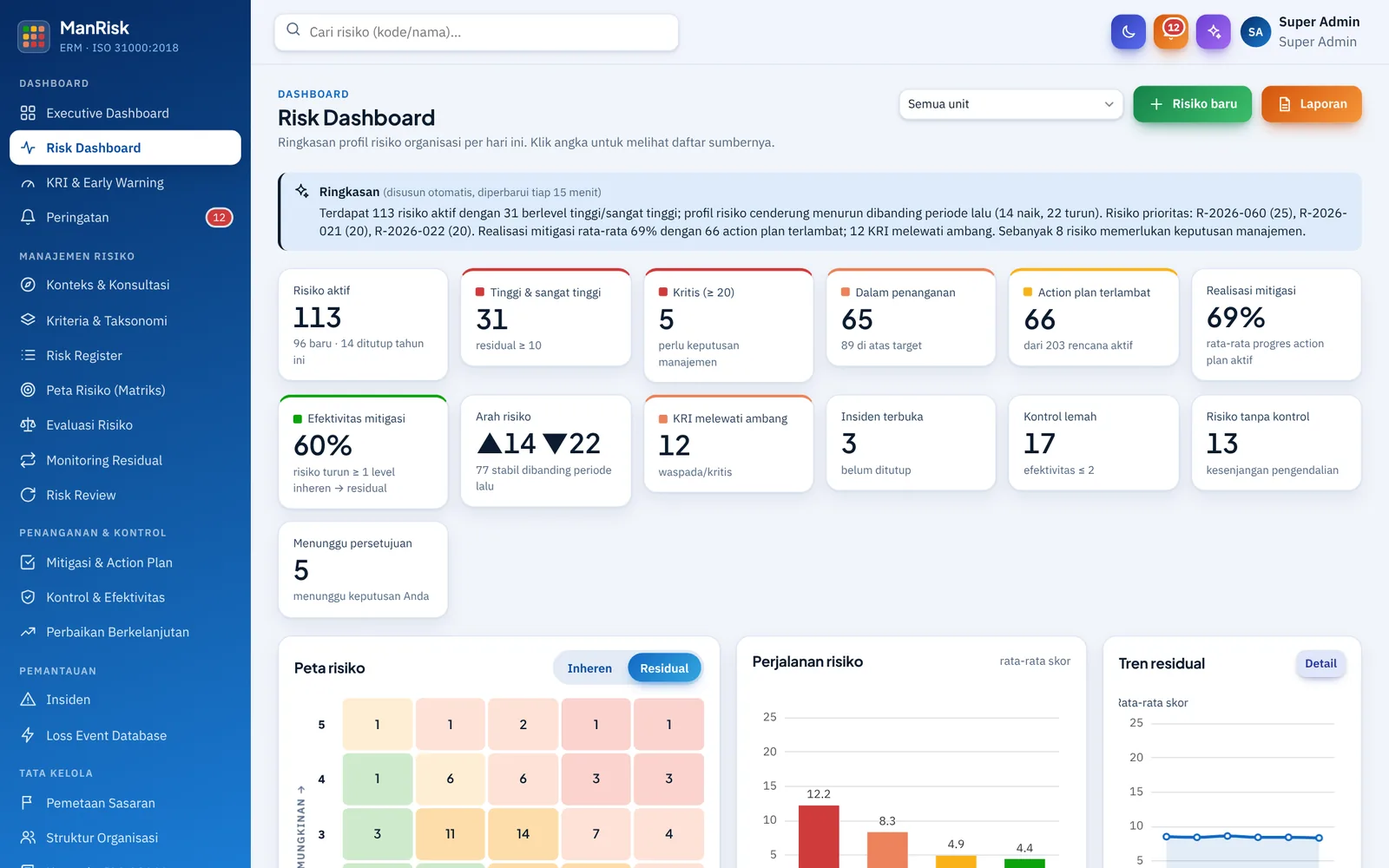
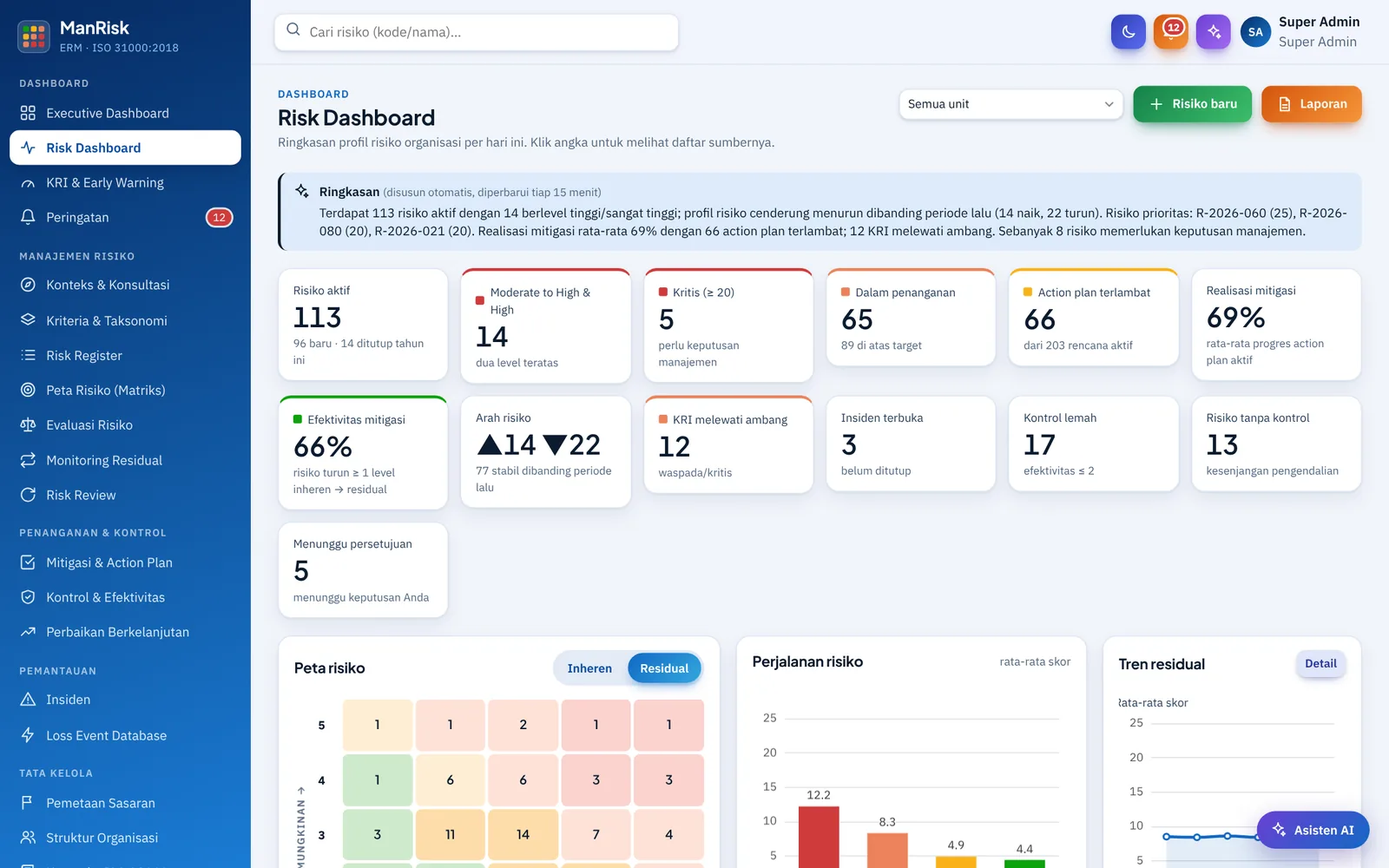
feat(landing): kesesuaian Permen BUMN PER-2/MBU/03/2023 dan fitur versi terbaru
Landing page sebelumnya diambil dari cabang main yang belum memuat modul
PER-2. Sekarang mengikuti versi yang berjalan di produksi:
- Hero: ISO 31000:2018 + PER-2/MBU/03/2023, manajemen risiko terintegrasi
- Bagian baru PER-2: tiga lini & organ pengelola, taksonomi T1-T3,
  level 5 tingkat & kuantifikasi, laporan triwulanan, RMI, kajian KKS
- Fitur baru: risk limit, target triwulan, RMI, KKS, review berkala,
  AI Assistant & AI Analitik; 8 peran (Dewan Komisaris/Komite)
- 16 tangkapan layar baru dari versi produksi (data demo)
- SEO: judul, deskripsi, kata kunci, JSON-LD & FAQ PER-2, sitemap gambar
- Nav tidak lagi berdesakan di lebar tablet; kode regulasi tidak terpotong

Claude-Session: https://claude.ai/code/session_01KqfbCUpMHUVtfsJKwpdSwo

diff --git a/index.html b/index.html
@@ -3,9 +3,9 @@
 <head>
 <meta charset="utf-8">
 <meta name="viewport" content="width=device-width, initial-scale=1">
-<title>Aplikasi Manajemen Risiko ISO 31000 (ERM) | ManRisk – Semesta Teknologi Utama</title>
-<meta name="description" content="ManRisk ERM: aplikasi manajemen risiko berbasis ISO 31000:2018 untuk perusahaan, BUMN, instansi pemerintah, dan lembaga keuangan. Risk register, peta risiko 5×5, KRI & early warning, action plan, insiden & loss database, laporan PDF/Excel.">
-<meta name="keywords" content="aplikasi manajemen risiko, software manajemen risiko, sistem manajemen risiko, manajemen risiko ISO 31000, enterprise risk management, aplikasi ERM, risk register, peta risiko, heat map risiko, key risk indicator, KRI, risk assessment, penilaian risiko, mitigasi risiko, loss event database, manajemen risiko BUMN, manajemen risiko perusahaan, GRC Indonesia, Semesta Teknologi Utama">
+<title>Aplikasi Manajemen Risiko ISO 31000 & PER-2/MBU/03/2023 | ManRisk ERM</title>
+<meta name="description" content="ManRisk ERM: aplikasi manajemen risiko terintegrasi sesuai ISO 31000:2018 dan Permen BUMN PER-2/MBU/03/2023. Risk register, matriks & evaluasi, mitigasi, kontrol, KRI, insiden, review berkala, persetujuan berjenjang, laporan triwulanan, Risk Maturity Index, dan kajian risiko KKS.">
+<meta name="keywords" content="aplikasi manajemen risiko, software manajemen risiko, sistem manajemen risiko, manajemen risiko ISO 31000, PER-2/MBU/03/2023, Permen BUMN PER-2 2023, manajemen risiko BUMN, aplikasi manajemen risiko BUMN, taksonomi risiko BUMN, Risk Maturity Index, RMI BUMN, Kegiatan Korporasi Signifikan, kajian risiko KKS, laporan manajemen risiko triwulanan, risk limit, eksposur risiko, tiga lini, Komite Pemantau Risiko, enterprise risk management, aplikasi ERM, risk register, peta risiko, key risk indicator, KRI, GRC Indonesia, Semesta Teknologi Utama">
 <meta name="author" content="PT Semesta Teknologi Utama">
 <meta name="robots" content="index, follow, max-image-preview:large, max-snippet:-1">
 <meta name="googlebot" content="index, follow">
@@ -22,8 +22,8 @@
 <meta property="og:type" content="website">
 <meta property="og:locale" content="id_ID">
 <meta property="og:site_name" content="ManRisk ERM – Semesta Teknologi Utama">
-<meta property="og:title" content="Aplikasi Manajemen Risiko ISO 31000 | ManRisk ERM">
-<meta property="og:description" content="Kelola seluruh siklus risiko—identifikasi, analisis, evaluasi, penanganan, pemantauan, dan pelaporan—dalam satu aplikasi berbasis ISO 31000:2018.">
+<meta property="og:title" content="Aplikasi Manajemen Risiko ISO 31000 & PER-2/MBU/03/2023 | ManRisk ERM">
+<meta property="og:description" content="Manajemen risiko terintegrasi, sesuai standar internasional dan regulasi pemerintah. Risk register, matriks & evaluasi, mitigasi, kontrol, KRI, insiden, review berkala, persetujuan berjenjang, dan pelaporan dalam satu platform.">
 <meta property="og:url" content="https://manajemenrisiko.semestateknologiutama.com/">
 <meta property="og:image" content="https://manajemenrisiko.semestateknologiutama.com/assets/img/og-image.png">
 <meta property="og:image:width" content="1200">
@@ -31,8 +31,8 @@
 <meta property="og:image:alt" content="Dashboard aplikasi manajemen risiko ManRisk ERM">
 <!-- Twitter -->
 <meta name="twitter:card" content="summary_large_image">
-<meta name="twitter:title" content="Aplikasi Manajemen Risiko ISO 31000 | ManRisk ERM">
-<meta name="twitter:description" content="Risk register, peta risiko 5×5, KRI & early warning, action plan, dan laporan otomatis dalam satu aplikasi.">
+<meta name="twitter:title" content="Aplikasi Manajemen Risiko ISO 31000 & PER-2/MBU/03/2023 | ManRisk ERM">
+<meta name="twitter:description" content="Manajemen risiko terintegrasi sesuai ISO 31000:2018 dan Permen BUMN PER-2/MBU/03/2023: taksonomi T1–T3, risk limit, RMI, kajian KKS, laporan triwulanan.">
 <meta name="twitter:image" content="https://manajemenrisiko.semestateknologiutama.com/assets/img/og-image.png">
 
 <link rel="preconnect" href="https://fonts.googleapis.com">
@@ -76,18 +76,23 @@
       "url": "https://manajemenrisiko.semestateknologiutama.com/",
       "image": "https://manajemenrisiko.semestateknologiutama.com/assets/img/dashboard.webp",
       "screenshot": "https://manajemenrisiko.semestateknologiutama.com/assets/img/dashboard.webp",
-      "description": "Aplikasi manajemen risiko (ERM) berbasis ISO 31000:2018: risk register, peta risiko 5×5, KRI & early warning, action plan, kontrol, insiden & loss database, persetujuan berjenjang, audit trail, dan laporan PDF/Excel.",
+      "description": "Aplikasi manajemen risiko (ERM) terintegrasi sesuai ISO 31000:2018 dan Peraturan Menteri BUMN PER-2/MBU/03/2023: risk register, matriks & evaluasi, mitigasi, kontrol, KRI, insiden, review berkala, persetujuan berjenjang, laporan triwulanan, Risk Maturity Index, dan kajian risiko Kegiatan Korporasi Signifikan.",
       "featureList": [
+        "Kesesuaian ISO 31000:2018 dan Permen BUMN PER-2/MBU/03/2023",
+        "Organ pengelola risiko tiga lini: Direksi, Dewan Komisaris/Dewan Pengawas, Komite Audit, Komite Pemantau Risiko",
+        "Taksonomi risiko T1–T3 dari BUMN induk hingga anak perusahaan, klasifikasi sistemik/signifikan/netral",
+        "Level risiko 5 tingkat, kuantifikasi eksposur rupiah, risk limit, dan target residual per triwulan",
+        "Laporan manajemen risiko triwulanan BUMN",
+        "Penilaian Risk Maturity Index (RMI)",
+        "Kajian risiko Kegiatan Korporasi Signifikan (KKS)",
         "Risk Register dengan wizard identifikasi, analisis, evaluasi, dan treatment",
-        "Peta risiko (heat map) 5×5 inheren, residual, dan target",
+        "Matriks risiko 5×5 dan evaluasi terhadap appetite, tolerance, dan risk limit",
+        "Mitigasi (action plan) dan kontrol dengan pengujian efektivitas",
         "Key Risk Indicator (KRI) dan early warning",
-        "Action plan mitigasi dengan progres dan kanban",
-        "Kontrol dan pengujian efektivitas",
         "Insiden dan loss event database",
-        "Persetujuan berjenjang dengan SLA",
-        "Dashboard eksekutif",
-        "Laporan PDF dan Excel",
-        "Audit trail dan verifikasi dua langkah (MFA)"
+        "Risk review berkala dan persetujuan berjenjang dengan SLA",
+        "AI Assistant di setiap fitur dan AI Analitik",
+        "Laporan PDF/Excel, audit trail, dan verifikasi dua langkah (MFA)"
       ],
       "provider": { "@id": "https://semestateknologiutama.com/#organization" },
       "offers": {
@@ -109,6 +114,16 @@
           "@type": "Question",
           "name": "Apakah aplikasi ini sesuai standar ISO 31000?",
           "acceptedAnswer": { "@type": "Answer", "text": "Ya. Alur kerja, kriteria risiko, peta risiko 5×5, dan modul self-assessment kerangka kerja disusun berdasarkan prinsip, kerangka kerja, dan proses ISO 31000:2018." }
+        },
+        {
+          "@type": "Question",
+          "name": "Apakah ManRisk sesuai Peraturan Menteri BUMN PER-2/MBU/03/2023?",
+          "acceptedAnswer": { "@type": "Answer", "text": "Ya. Selain proses ISO 31000, ManRisk mengakomodasi ketentuan manajemen risiko dalam PER-2/MBU/03/2023 (yang menggantikan PER-5/MBU/09/2022): organ pengelola risiko tiga lini, taksonomi risiko T1–T3 dari BUMN induk hingga anak perusahaan, klasifikasi intensitas risiko sistemik/signifikan/netral, level risiko 5 tingkat dengan eksposur rupiah, risk limit, target residual per triwulan, laporan triwulanan, Risk Maturity Index, dan kajian risiko Kegiatan Korporasi Signifikan." }
+        },
+        {
+          "@type": "Question",
+          "name": "Apa itu Risk Maturity Index (RMI) di ManRisk?",
+          "acceptedAnswer": { "@type": "Answer", "text": "Modul RMI digunakan untuk menilai tingkat kematangan penerapan manajemen risiko pada lima dimensi, dengan penilaian internal setiap tahun dan penilaian independen paling sedikit sekali dalam tiga tahun. Hasilnya berupa indeks dan fase kematangan, dari Fase Awal hingga Praktik Terbaik." }
         },
         {
           "@type": "Question",
@@ -203,7 +218,7 @@ p { margin: 0; }
 .brand-text { font-family: var(--f-display); font-weight: 800; font-size: 18px; line-height: 1.05; }
 .brand-text small { display: block; font-family: var(--f-body); font-weight: 500; font-size: 11.5px; color: var(--muted); letter-spacing: .01em; }
 .nav-links { display: flex; align-items: center; gap: 26px; }
-.nav-links a { color: var(--fg-2); text-decoration: none; font-weight: 500; font-size: 15px; }
+.nav-links a { color: var(--fg-2); text-decoration: none; font-weight: 500; font-size: 15px; white-space: nowrap; }
 .nav-links a:hover { color: var(--blue-600); }
 .nav-links .btn { padding: 10px 16px; font-size: 14.5px; color: #fff; }
 .nav-toggle { display: none; background: none; border: 1px solid var(--line); border-radius: 10px; width: 42px; height: 42px; align-items: center; justify-content: center; color: var(--fg); }
@@ -213,6 +228,18 @@ p { margin: 0; }
 .hero::after { content: ""; position: absolute; inset: 0; background-image: linear-gradient(rgba(255,255,255,.05) 1px, transparent 1px), linear-gradient(90deg, rgba(255,255,255,.05) 1px, transparent 1px); background-size: 48px 48px; mask-image: linear-gradient(to bottom, #000 0%, transparent 75%); pointer-events: none; }
 .hero .wrap { position: relative; z-index: 1; }
 .hero-grid { display: grid; grid-template-columns: 1fr; gap: 40px; text-align: center; }
+.nw { white-space: nowrap; }
+.badges { display: flex; flex-wrap: wrap; gap: 8px; justify-content: center; }
+.reg { background: #fff; border-bottom: 1px solid var(--line); }
+.reg-grid { display: grid; grid-template-columns: 1fr 1.1fr; gap: 40px; align-items: start; }
+.reg-list { display: grid; gap: 16px; }
+.reg-item { display: flex; gap: 16px; align-items: flex-start; background: var(--bg); border: 1px solid var(--line); border-left: 4px solid var(--blue-600); border-radius: 14px; padding: 18px 20px; }
+.reg-item .ic { margin: 0; flex: none; width: 42px; height: 42px; }
+.reg-item h3 { font-size: 17px; }
+.reg-item p { color: var(--muted); font-size: 15px; margin-top: 4px; }
+.reg-shot { margin: 0; position: sticky; top: 92px; }
+.reg-shot img { border-radius: 14px; border: 1px solid var(--line); box-shadow: 0 30px 60px -30px rgba(4,35,79,.45); }
+.reg-shot figcaption { color: var(--muted); font-size: 14px; margin-top: 12px; text-align: center; }
 .badge { display: inline-flex; align-items: center; gap: 8px; background: rgba(255,255,255,.1); border: 1px solid rgba(255,255,255,.22); border-radius: 999px; padding: 6px 14px; font-size: 14px; font-weight: 500; color: #dbeafe; }
 .badge .dot { width: 8px; height: 8px; border-radius: 50%; background: #4ade80; box-shadow: 0 0 0 4px rgba(74,222,128,.2); }
 .hero h1 { color: #fff; font-size: clamp(34px, 5.4vw, 60px); font-weight: 800; margin: 22px auto 0; max-width: 940px; }
@@ -374,14 +401,17 @@ footer .brand-text small { color: #9fb4cf; }
 @media (max-width: 1024px) {
   .steps { grid-template-columns: repeat(3, 1fr); }
   .loss-grid, .benefit-grid, .feat-grid { grid-template-columns: repeat(2, 1fr); }
-  .two-col { grid-template-columns: 1fr; }
+  .two-col, .reg-grid { grid-template-columns: 1fr; }
+  .reg-shot { position: static; }
 }
-@media (max-width: 860px) {
+@media (max-width: 1100px) {
   .nav-links { display: none; position: absolute; top: 68px; left: 0; right: 0; background: #fff; flex-direction: column; align-items: stretch; gap: 0; padding: 8px 16px 16px; border-bottom: 1px solid var(--line); box-shadow: var(--shadow); }
   .nav-links.open { display: flex; }
   .nav-links a { padding: 12px 4px; border-bottom: 1px solid var(--line); }
   .nav-links .btn { margin-top: 12px; border-bottom: 0; }
   .nav-toggle { display: inline-flex; }
+}
+@media (max-width: 860px) {
   .stats-grid { grid-template-columns: repeat(2, 1fr); }
   .stat:nth-child(2) { border-right: 0; }
   .stat:nth-child(-n+2) { border-bottom: 1px solid var(--line); }
@@ -453,7 +483,8 @@ footer .brand-text small { color: #9fb4cf; }
     </a>
     <button class="nav-toggle" aria-label="Buka menu" aria-expanded="false" aria-controls="nav-links"><svg width="22" height="22"><use href="#i-menu"/></svg></button>
     <nav class="nav-links" id="nav-links" aria-label="Navigasi utama">
-      <a href="#kerugian">Risiko tanpa aplikasi</a>
+      <a href="#per-2">Regulasi BUMN</a>
+      <a href="#kerugian">Tanpa aplikasi</a>
       <a href="#manfaat">Manfaat</a>
       <a href="#fitur">Fitur</a>
       <a href="#tangkapan-layar">Tampilan</a>
@@ -469,17 +500,20 @@ footer .brand-text small { color: #9fb4cf; }
   <div class="wrap">
     <div class="hero-grid">
       <div>
-        <span class="badge"><span class="dot"></span>Berbasis standar ISO 31000:2018</span>
-        <h1>Aplikasi <span class="hl">Manajemen Risiko</span> Terintegrasi untuk Keputusan yang Lebih Aman</h1>
-        <p class="sub">ManRisk ERM membantu perusahaan, BUMN, lembaga keuangan, dan instansi pemerintah mengelola seluruh siklus risiko—dari identifikasi hingga pelaporan—dalam satu sistem yang rapi, terukur, dan siap diaudit.</p>
+        <div class="badges">
+          <span class="badge"><span class="dot"></span>ISO 31000:2018</span>
+          <span class="badge"><span class="dot"></span>Permen BUMN <span class="nw">PER-2/MBU/03/2023</span></span>
+        </div>
+        <h1><span class="hl">Manajemen risiko terintegrasi</span>, sesuai standar internasional dan regulasi pemerintah</h1>
+        <p class="sub">Risk register, matriks &amp; evaluasi, mitigasi, kontrol, KRI, insiden, review berkala, persetujuan berjenjang, dan pelaporan — dalam satu platform.</p>
         <div class="hero-cta">
           <a class="btn btn-wa js-wa" href="#" target="_blank" rel="noopener"><svg><use href="#i-wa"/></svg>Jadwalkan Demo via WhatsApp</a>
           <a class="btn btn-ghost" href="#fitur">Lihat Fitur Lengkap</a>
         </div>
         <div class="hero-meta">
-          <span><svg><use href="#i-check"/></svg>Risk register &amp; peta risiko 5×5</span>
-          <span><svg><use href="#i-check"/></svg>KRI &amp; early warning</span>
-          <span><svg><use href="#i-check"/></svg>Laporan PDF/Excel otomatis</span>
+          <span><svg><use href="#i-check"/></svg>Taksonomi T1–T3 &amp; risk limit</span>
+          <span><svg><use href="#i-check"/></svg>Risk Maturity Index &amp; kajian KKS</span>
+          <span><svg><use href="#i-check"/></svg>Laporan triwulanan BUMN</span>
         </div>
       </div>
       <div class="hero-shot">
@@ -493,10 +527,45 @@ footer .brand-text small { color: #9fb4cf; }
 <!-- STATS -->
 <section class="stats" aria-label="Ringkasan kemampuan">
   <div class="wrap stats-grid">
-    <div class="stat"><b>25+</b><span>Modul terintegrasi</span></div>
-    <div class="stat"><b>7</b><span>Peran pengguna &amp; hak akses</span></div>
-    <div class="stat"><b>5×5</b><span>Matriks peta risiko</span></div>
-    <div class="stat"><b>100%</b><span>Jejak audit setiap perubahan</span></div>
+    <div class="stat"><b>30+</b><span>Modul terintegrasi</span></div>
+    <div class="stat"><b>8</b><span>Peran pengguna, termasuk Dewan Komisaris/Komite</span></div>
+    <div class="stat"><b>5 level</b><span>Level risiko skema BUMN</span></div>
+    <div class="stat"><b>T1–T3</b><span>Taksonomi risiko bertingkat</span></div>
+  </div>
+</section>
+
+<!-- KEPATUHAN <span class="nw">PER-2/MBU/03/2023</span> -->
+<section class="section reg" id="per-2">
+  <div class="wrap">
+    <div class="section-head">
+      <span class="eyebrow">Kepatuhan regulasi BUMN</span>
+      <h2>Sesuai Peraturan Menteri BUMN <span class="nw">PER-2/MBU/03/2023</span></h2>
+      <p class="lead">Pedoman Tata Kelola dan Kegiatan Korporasi Signifikan BUMN, berlaku sejak 24 Maret 2023 dan menggantikan <span class="nw">PER-5/MBU/09/2022</span> tentang Penerapan Manajemen Risiko pada BUMN. ManRisk tidak hanya mengikuti proses ISO 31000, tetapi juga ketentuan manajemen risiko BUMN:</p>
+    </div>
+    <div class="reg-grid">
+      <div class="reg-list">
+        <article class="reg-item reveal">
+          <div class="ic ic-blue"><svg><use href="#i-users"/></svg></div>
+          <div><h3>Tiga lini &amp; organ pengelola</h3><p>Direksi, Dewan Komisaris/Dewan Pengawas, Komite Audit, dan Komite Pemantau Risiko. Setiap peran pengguna dipetakan ke model tiga lini, dan Dewan Komisaris/Komite punya akses pemantauan sendiri.</p></div>
+        </article>
+        <article class="reg-item reveal">
+          <div class="ic ic-blue"><svg><use href="#i-list"/></svg></div>
+          <div><h3>Taksonomi risiko T1–T3</h3><p>Tema, kategori, dan kelompok peristiwa risiko, terintegrasi dari BUMN induk hingga anak perusahaan dengan kode Taksonomi Risiko Portofolio BUMN. Klasifikasi intensitas risiko: sistemik, signifikan, atau netral.</p></div>
+        </article>
+        <article class="reg-item reveal">
+          <div class="ic ic-blue"><svg><use href="#i-money"/></svg></div>
+          <div><h3>Level risiko 5 tingkat &amp; kuantifikasi</h3><p>Low hingga High, eksposur dalam rupiah (inheren, residual, target), risk limit per kategori dan organisasi, kapasitas risiko, serta target residual per triwulan yang dibandingkan dengan realisasinya.</p></div>
+        </article>
+        <article class="reg-item reveal">
+          <div class="ic ic-blue"><svg><use href="#i-report"/></svg></div>
+          <div><h3>Laporan triwulanan, Risk Maturity Index &amp; kajian risiko KKS</h3><p>Laporan manajemen risiko triwulanan siap unduh, penilaian RMI tahunan dan independen pada lima dimensi, serta kajian risiko Kegiatan Korporasi Signifikan (investasi, aksi korporasi, proyek strategis) dengan dokumen PDF.</p></div>
+        </article>
+      </div>
+      <figure class="reg-shot reveal">
+        <img src="assets/img/exposure-limit.webp" width="1600" height="1000" loading="lazy" alt="Evaluasi eksposur risiko terhadap risk limit per taksonomi T1–T3 di aplikasi manajemen risiko ManRisk">
+        <figcaption>Eksposur residual dibandingkan dengan risk limit, dijumlahkan dari T3 ke T2 lalu ke T1.</figcaption>
+      </figure>
+    </div>
   </div>
 </section>
 
@@ -532,7 +601,7 @@ footer .brand-text small { color: #9fb4cf; }
       <article class="card loss-card reveal">
         <div class="ic ic-red"><svg><use href="#i-search"/></svg></div>
         <h3>Audit &amp; regulator sulit dipenuhi</h3>
-        <p>Bukti persetujuan, riwayat perubahan, dan dokumen pendukung harus dikumpulkan manual. Temuan audit menumpuk dan reputasi dipertaruhkan.</p>
+        <p>Bukti persetujuan, riwayat perubahan, dan dokumen pendukung dikumpulkan manual. Bagi BUMN, ketentuan <span class="nw">PER-2/MBU/03/2023</span> seperti taksonomi, risk limit, laporan triwulanan, dan RMI sulit dipenuhi tepat waktu.</p>
       </article>
       <article class="card loss-card reveal">
         <div class="ic ic-red"><svg><use href="#i-report"/></svg></div>
@@ -566,6 +635,8 @@ footer .brand-text small { color: #9fb4cf; }
         <tr><td>Mitigasi</td><td class="bad"><span class="mk mk-x">✕</span>Progres ditanyakan lewat email/chat</td><td class="good"><span class="mk mk-v">✓</span>Action plan, kanban, pengingat tenggat &amp; verifikasi</td></tr>
         <tr><td>Persetujuan</td><td class="bad"><span class="mk mk-x">✕</span>Tanda tangan basah, tidak ada jejak</td><td class="good"><span class="mk mk-v">✓</span>Persetujuan berjenjang dengan SLA &amp; jejak digital</td></tr>
         <tr><td>Pelaporan</td><td class="bad"><span class="mk mk-x">✕</span>Berhari-hari menyusun laporan direksi</td><td class="good"><span class="mk mk-v">✓</span>Laporan PDF/Excel dalam hitungan detik</td></tr>
+        <tr><td>Kuantifikasi</td><td class="bad"><span class="mk mk-x">✕</span>Eksposur rupiah &amp; risk limit dihitung terpisah</td><td class="good"><span class="mk mk-v">✓</span>Eksposur inheren/residual/target vs risk limit, otomatis per T1–T3</td></tr>
+        <tr><td>Regulasi BUMN</td><td class="bad"><span class="mk mk-x">✕</span>Laporan triwulanan, RMI, dan kajian KKS disusun manual</td><td class="good"><span class="mk mk-v">✓</span>Modul khusus <span class="nw">PER-2/MBU/03/2023</span> siap pakai</td></tr>
         <tr><td>Audit</td><td class="bad"><span class="mk mk-x">✕</span>Bukti dicari manual, mudah hilang</td><td class="good"><span class="mk mk-v">✓</span>Audit trail permanen &amp; dokumen bukti terpusat</td></tr>
       </tbody>
     </table>
@@ -594,7 +665,7 @@ footer .brand-text small { color: #9fb4cf; }
       <article class="card benefit-card reveal">
         <div class="ic ic-green"><svg><use href="#i-shield"/></svg></div>
         <h3>Siap audit &amp; patuh regulasi</h3>
-        <p>Proses mengikuti ISO 31000:2018, setiap perubahan tercatat di audit trail, dan bukti pendukung tersimpan rapi—mendukung GCG dan pemeriksaan auditor.</p>
+        <p>Proses mengikuti ISO 31000:2018 dan Permen BUMN <span class="nw">PER-2/MBU/03/2023</span>, setiap perubahan tercatat di audit trail, dan bukti pendukung tersimpan rapi—mendukung GCG dan pemeriksaan auditor.</p>
       </article>
       <article class="card benefit-card reveal">
         <div class="ic ic-green"><svg><use href="#i-clock"/></svg></div>
@@ -640,7 +711,19 @@ footer .brand-text small { color: #9fb4cf; }
     <div class="section-head">
       <span class="eyebrow">Fitur lengkap</span>
       <h2>Semua yang dibutuhkan fungsi manajemen risiko modern</h2>
-      <p class="lead">Lebih dari 25 modul yang saling terhubung: data yang diinput di satu modul langsung tercermin di dashboard, peringatan, dan laporan.</p>
+      <p class="lead">Lebih dari 30 modul yang saling terhubung: data yang diinput di satu modul langsung tercermin di dashboard, peringatan, dan laporan.</p>
+    </div>
+
+    <div class="feat-group">
+      <div class="feat-group-title">Kepatuhan BUMN · <span class="nw">PER-2/MBU/03/2023</span></div>
+      <div class="feat-grid">
+        <div class="feat reveal"><h3><span class="ic ic-blue"><svg><use href="#i-list"/></svg></span>Taksonomi T1–T3 &amp; Risk Limit</h3><ul><li>Tema → kategori → kelompok peristiwa risiko</li><li>Kode Taksonomi Risiko Portofolio BUMN</li><li>Risk limit per kategori &amp; total organisasi</li></ul></div>
+        <div class="feat reveal"><h3><span class="ic ic-blue"><svg><use href="#i-money"/></svg></span>Kuantifikasi &amp; Target Triwulan</h3><ul><li>Skema level 5 tingkat (Low → High)</li><li>Eksposur inheren, residual, target dalam rupiah</li><li>Target residual TW1–TW4 vs realisasi</li></ul></div>
+        <div class="feat reveal"><h3><span class="ic ic-blue"><svg><use href="#i-users"/></svg></span>Tiga Lini &amp; Organ Pengelola</h3><ul><li>Peran Dewan Komisaris / Komite</li><li>Komite Audit &amp; Komite Pemantau Risiko</li><li>BUMN induk (holding) &amp; anak perusahaan</li></ul></div>
+        <div class="feat reveal"><h3><span class="ic ic-blue"><svg><use href="#i-gauge"/></svg></span>Risk Maturity Index (RMI)</h3><ul><li>Penilaian lima dimensi kematangan</li><li>Internal tahunan &amp; independen per 3 tahun</li><li>Indeks, fase kematangan &amp; unduhan PDF</li></ul></div>
+        <div class="feat reveal"><h3><span class="ic ic-blue"><svg><use href="#i-building"/></svg></span>Kajian Risiko KKS</h3><ul><li>Kegiatan Korporasi Signifikan: investasi, aksi korporasi, proyek strategis</li><li>Nilai transaksi &amp; organ pemutus</li><li>Dokumen kajian risiko PDF</li></ul></div>
+        <div class="feat reveal"><h3><span class="ic ic-blue"><svg><use href="#i-report"/></svg></span>Laporan Triwulanan BUMN</h3><ul><li>Strategi &amp; selera risiko, profil, dan peta risiko</li><li>Realisasi target triwulan &amp; pemakaian risk limit</li><li>Perlakuan risiko &amp; biaya, KRI, loss event · PDF/Excel</li></ul></div>
+      </div>
     </div>
 
     <div class="feat-group">
@@ -656,11 +739,11 @@ footer .brand-text small { color: #9fb4cf; }
       <div class="feat-group-title">Proses manajemen risiko</div>
       <div class="feat-grid">
         <div class="feat reveal"><h3><span class="ic ic-blue"><svg><use href="#i-list"/></svg></span>Risk Register</h3><ul><li>Wizard identifikasi → analisis → evaluasi → treatment</li><li>Riwayat versi setiap risiko</li><li>Impor dari Excel dengan pratinjau validasi</li></ul></div>
-        <div class="feat reveal"><h3><span class="ic ic-blue"><svg><use href="#i-grid"/></svg></span>Peta Risiko 5×5</h3><ul><li>Heat map inheren, residual, dan target</li><li>Klik sel untuk melihat daftar risiko</li><li>Evaluasi terhadap appetite &amp; tolerance</li></ul></div>
+        <div class="feat reveal"><h3><span class="ic ic-blue"><svg><use href="#i-grid"/></svg></span>Matriks &amp; Evaluasi</h3><ul><li>Heat map 5×5 inheren, residual, dan target</li><li>Evaluasi terhadap appetite, tolerance &amp; risk limit</li><li>Klik sel untuk melihat daftar risiko</li></ul></div>
         <div class="feat reveal"><h3><span class="ic ic-blue"><svg><use href="#i-cog"/></svg></span>Kriteria &amp; Taksonomi</h3><ul><li>Kriteria kemungkinan &amp; dampak berversi</li><li>Kategori risiko dan selera risiko</li><li>Konteks internal/eksternal &amp; SWOT</li></ul></div>
-        <div class="feat reveal"><h3><span class="ic ic-blue"><svg><use href="#i-down"/></svg></span>Monitoring Residual</h3><ul><li>Snapshot skor bulanan otomatis</li><li>Pergerakan level risiko antarperiode</li><li>Risk review berkala dengan notulen</li></ul></div>
+        <div class="feat reveal"><h3><span class="ic ic-blue"><svg><use href="#i-down"/></svg></span>Monitoring &amp; Review Berkala</h3><ul><li>Snapshot skor residual bulanan otomatis</li><li>Risk review bulanan/triwulanan/tahunan bertanda tangan</li><li>Notulen review siap unduh</li></ul></div>
         <div class="feat reveal"><h3><span class="ic ic-blue"><svg><use href="#i-target"/></svg></span>Sasaran &amp; Proses Bisnis</h3><ul><li>Pemetaan risiko ke sasaran strategis</li><li>Program &amp; proses bisnis</li><li>Struktur organisasi berjenjang</li></ul></div>
-        <div class="feat reveal"><h3><span class="ic ic-blue"><svg><use href="#i-spark"/></svg></span>AI Risk Assistant</h3><ul><li>Saran penyebab, dampak, dan kontrol</li><li>Bantu rumuskan rencana mitigasi</li><li>Mempercepat penyusunan risk register</li></ul></div>
+        <div class="feat reveal"><h3><span class="ic ic-blue"><svg><use href="#i-spark"/></svg></span>AI Assistant &amp; AI Analitik</h3><ul><li>Asisten AI di setiap halaman, sesuai hak akses</li><li>Saran penyebab, dampak, kontrol &amp; mitigasi</li><li>Dashboard analitik dari permintaan bahasa sehari-hari</li></ul></div>
       </div>
     </div>
 
@@ -678,7 +761,7 @@ footer .brand-text small { color: #9fb4cf; }
       <div class="feat-grid">
         <div class="feat reveal"><h3><span class="ic ic-blue"><svg><use href="#i-users"/></svg></span>Persetujuan Berjenjang</h3><ul><li>Risk Owner → Risk Manager → Manajemen</li><li>SLA &amp; pengingat persetujuan</li><li>Catatan dan jejak setiap keputusan</li></ul></div>
         <div class="feat reveal"><h3><span class="ic ic-blue"><svg><use href="#i-files"/></svg></span>Laporan &amp; Dokumen</h3><ul><li>Laporan PDF/Excel: register, eksekutif, KRI, insiden</li><li>Jadwal laporan berkala</li><li>Dokumen &amp; bukti tersimpan aman</li></ul></div>
-        <div class="feat reveal"><h3><span class="ic ic-blue"><svg><use href="#i-lock"/></svg></span>Kerangka ISO 31000 &amp; Audit</h3><ul><li>Self-assessment kerangka kerja ISO 31000</li><li>Audit trail append-only (nilai lama → baru)</li><li>7 peran pengguna dengan cakupan unit</li></ul></div>
+        <div class="feat reveal"><h3><span class="ic ic-blue"><svg><use href="#i-lock"/></svg></span>Kerangka ISO 31000 &amp; Audit</h3><ul><li>Self-assessment kerangka kerja ISO 31000</li><li>Audit trail append-only (nilai lama → baru)</li><li>8 peran pengguna dengan cakupan unit</li></ul></div>
       </div>
     </div>
   </div>
@@ -741,6 +824,8 @@ footer .brand-text small { color: #9fb4cf; }
     <div class="faq">
       <details open><summary>Apa itu aplikasi manajemen risiko ManRisk ERM?</summary><p>ManRisk ERM adalah aplikasi web manajemen risiko perusahaan (Enterprise Risk Management) yang mengikuti proses ISO 31000:2018: penetapan konteks, identifikasi, analisis, evaluasi, penanganan, pemantauan, dan pelaporan risiko dalam satu sistem terintegrasi.</p></details>
       <details><summary>Apakah aplikasi ini sesuai standar ISO 31000?</summary><p>Ya. Alur kerja, kriteria risiko, peta risiko 5×5, dan modul self-assessment kerangka kerja disusun berdasarkan prinsip, kerangka kerja, dan proses ISO 31000:2018.</p></details>
+      <details><summary>Apakah ManRisk sesuai Peraturan Menteri BUMN PER-2/MBU/03/2023?</summary><p>Ya. Selain proses ISO 31000, ManRisk mengakomodasi ketentuan manajemen risiko dalam <span class="nw">PER-2/MBU/03/2023</span> (yang menggantikan <span class="nw">PER-5/MBU/09/2022</span>): organ pengelola risiko tiga lini, taksonomi risiko T1–T3 dari BUMN induk hingga anak perusahaan, klasifikasi intensitas risiko sistemik/signifikan/netral, level risiko 5 tingkat dengan eksposur rupiah, risk limit, target residual per triwulan, laporan triwulanan, Risk Maturity Index, dan kajian risiko Kegiatan Korporasi Signifikan.</p></details>
+      <details><summary>Apa itu Risk Maturity Index (RMI) di ManRisk?</summary><p>Modul RMI digunakan untuk menilai tingkat kematangan penerapan manajemen risiko pada lima dimensi, dengan penilaian internal setiap tahun dan penilaian independen paling sedikit sekali dalam tiga tahun. Hasilnya berupa indeks dan fase kematangan, dari Fase Awal hingga Praktik Terbaik.</p></details>
       <details><summary>Siapa yang cocok menggunakan aplikasi manajemen risiko ini?</summary><p>BUMN dan anak perusahaan, perusahaan swasta, lembaga keuangan, rumah sakit, perguruan tinggi, dan instansi pemerintah yang perlu mengelola risiko secara terstruktur, terdokumentasi, dan siap diaudit.</p></details>
       <details><summary>Apakah data risiko yang sudah ada di Excel bisa dipindahkan?</summary><p>Bisa. ManRisk menyediakan fitur impor dengan templat Excel dan pratinjau validasi sebelum data disimpan, sehingga risk register lama dapat dipindahkan dengan cepat.</p></details>
       <details><summary>Bagaimana keamanan data di aplikasi ManRisk?</summary><p>ManRisk menerapkan hak akses per peran dan unit kerja, verifikasi dua langkah (MFA) via email, kebijakan sandi kuat, penguncian akun, audit trail yang tidak dapat diubah, unggahan berkas tervalidasi, dan pemisahan data antarorganisasi.</p></details>
@@ -821,18 +906,22 @@ footer .brand-text small { color: #9fb4cf; }
 
   // Screenshots
   var shots = [
-    { f: "dashboard", t: "Risk Dashboard", d: "Ringkasan profil risiko, distribusi level, top risk, dan status mitigasi dalam satu layar." },
-    { f: "executive", t: "Executive Dashboard", d: "Gambaran korporat untuk direksi: tren risiko, appetite, insiden, dan kerugian." },
-    { f: "register", t: "Risk Register", d: "Daftar risiko terpusat dengan filter unit, kategori, level, dan status persetujuan." },
-    { f: "risk-detail", t: "Detail Risiko", d: "Penyebab, dampak, kontrol, skor inheren–residual–target, action plan, dan riwayat versi." },
-    { f: "matrix", t: "Peta Risiko 5×5", d: "Heat map kemungkinan × dampak untuk posisi risiko inheren, residual, dan target." },
-    { f: "action-plans", t: "Action Plan", d: "Rencana mitigasi dengan PIC, tenggat, progres, dan verifikasi penyelesaian." },
+    { f: "dashboard", t: "Risk Dashboard", d: "Ringkasan profil risiko dengan level 5 tingkat skema BUMN, top risk, dan status mitigasi dalam satu layar." },
+    { f: "executive", t: "Executive Dashboard", d: "Gambaran untuk Direksi dan Dewan Komisaris: profil risiko, eksposur residual vs risk limit, tren, dan kerugian." },
+    { f: "register", t: "Risk Register", d: "Daftar risiko terpusat dengan filter unit, taksonomi, level, sasaran, dan status persetujuan." },
+    { f: "matrix", t: "Matriks Risiko 5×5", d: "Heat map kemungkinan × dampak untuk posisi risiko inheren, residual, dan target." },
+    { f: "exposure-limit", t: "Evaluasi & Risk Limit", d: "Eksposur inheren, residual, dan target dalam rupiah dibandingkan dengan risk limit per taksonomi T1–T3." },
+    { f: "quarter-targets", t: "Target Triwulan", d: "Target residual TW1–TW4 sesuai RKAP dibandingkan dengan realisasi skor dan eksposur." },
+    { f: "criteria-bumn", t: "Kriteria 5 Level BUMN", d: "Matriks level risiko skema BUMN PER-2/MBU/03/2023 (Low hingga High) yang berversi." },
+    { f: "taxonomy", t: "Taksonomi T1–T3", d: "Tema, kategori, dan kelompok peristiwa risiko dengan kode BUMN, appetite, tolerance, dan risk limit." },
+    { f: "rmi", t: "Risk Maturity Index", d: "Penilaian kematangan manajemen risiko pada lima dimensi beserta indeks dan fase kematangannya." },
+    { f: "kks", t: "Kajian Risiko KKS", d: "Kajian risiko Kegiatan Korporasi Signifikan: jenis KKS, nilai transaksi, organ pemutus, dan kesimpulan." },
+    { f: "governance-bumn", t: "Tata Kelola BUMN", d: "Jenis entitas (holding/anak perusahaan), klasifikasi intensitas risiko, komite, kapasitas risiko, dan risk limit." },
+    { f: "action-plans", t: "Mitigasi", d: "Rencana mitigasi dengan PIC, tenggat, progres, biaya, dan verifikasi penyelesaian." },
     { f: "kri", t: "KRI & Early Warning", d: "Indikator risiko utama dengan ambang batas dan status peringatan dini." },
-    { f: "incidents", t: "Insiden & Kerugian", d: "Pencatatan insiden yang otomatis terhubung ke loss event database dan peringatan." },
-    { f: "losses", t: "Loss Event Database", d: "Rekap kerugian per tahun dan per kategori sebagai dasar analisis akar masalah." },
-    { f: "controls", t: "Kontrol", d: "Pustaka kontrol beserta hasil pengujian desain dan efektivitas operasional." },
-    { f: "approvals", t: "Persetujuan", d: "Alur persetujuan berjenjang Risk Owner → Risk Manager → Manajemen dengan SLA." },
-    { f: "framework", t: "Kerangka ISO 31000", d: "Self-assessment kematangan kerangka kerja manajemen risiko berdasarkan ISO 31000." }
+    { f: "incidents", t: "Insiden", d: "Pencatatan insiden yang otomatis terhubung ke loss event database dan peringatan." },
+    { f: "approvals", t: "Persetujuan Berjenjang", d: "Alur persetujuan Risk Owner → Risk Manager → Manajemen dengan SLA." },
+    { f: "ai-analytics", t: "AI Analitik", d: "Buat dashboard analitik dari permintaan dalam bahasa sehari-hari, lalu simpan dan bagikan." }
   ];
   var tabs = document.getElementById("tabs"), thumbs = document.getElementById("thumbs");
   var vImg = document.getElementById("viewer-img"), vCap = document.getElementById("viewer-cap");
